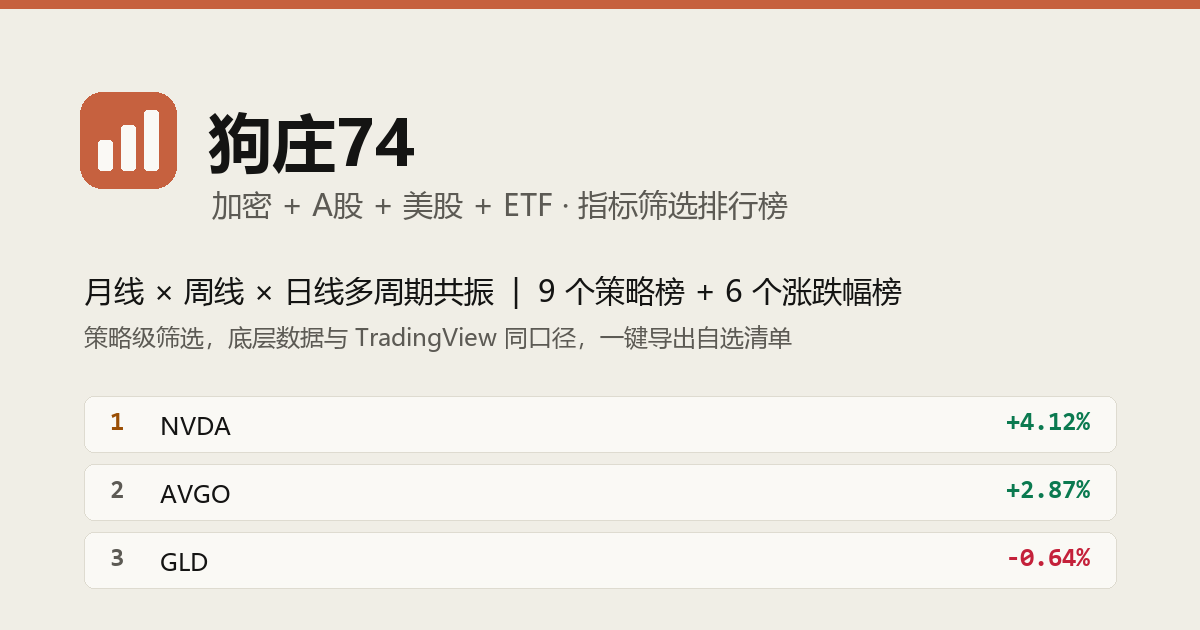
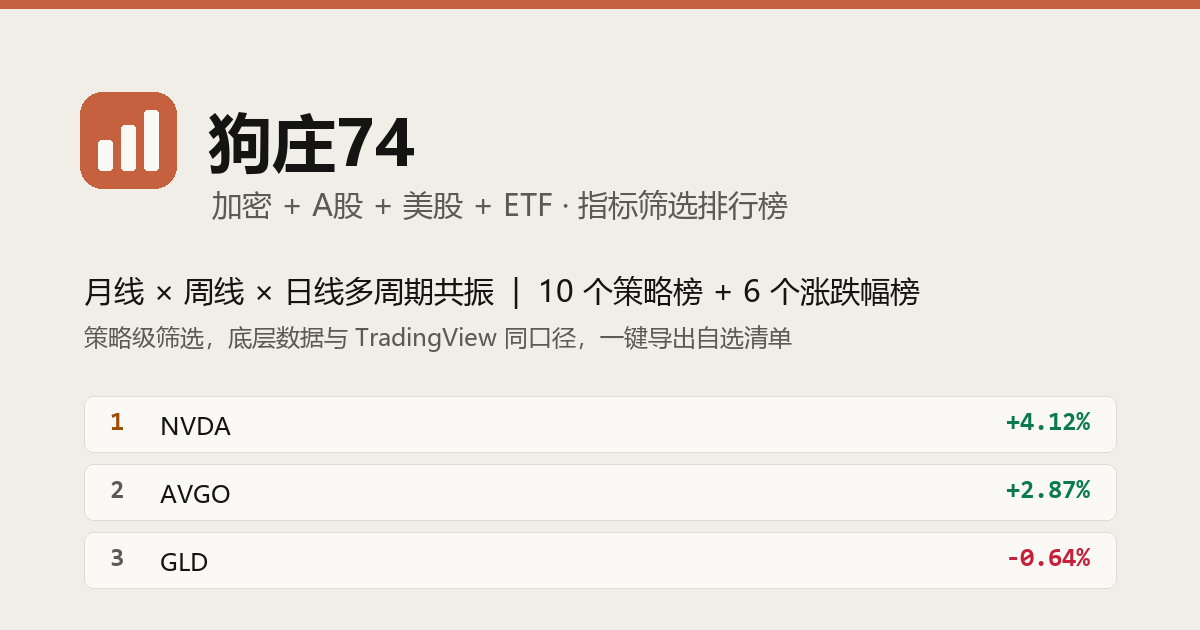
前端：加密新增第 7 个策略榜「日线SAR多头第二根」
站长指令逐字：「新增一个TAB，逻辑是：最新已收盘日线是SAR多头的第二根K线。」
没点资产 ⇒ 按「新增TAB 不点资产 ＝ 加密」的先例做加密。

- TABS_CONFIG / TAB_GROUPS 各加一条 `dailySarSecondBar`，追加在末尾成为 ⑦
  （插到中间会让 ①-⑦ 整套编号位移，后端 docstring 与注释都按编号互相引用）
- 轴一根没加：与 ①②③ 共用 11 轴的 cryptoStrategySorts（行 payload 逐字同构）
- 不进 CHANGE_PCT_TABS ⇒ isStrategyTab 为真 ⇒ 挂命中徽标、脉搏磁贴 6 榜→7 榜
- index.html：meta 描述 + FAQ 榜数（那条"加榜收尾清单必须显式含这两处"的纪律）
- og.png 重跑（现算出「10 个策略榜 + 6 个涨跌幅榜」）
- 顺带修两处陈旧注释：cryptoWeeklyExpansionSorts「只服务一个榜」实为三个（④⑤⑥）、
  「另三个加密榜」实为四个（①②③⑦）

实测（1280/768/375）：rail 10 项、新名 135==135 未裁切；轴数逐榜
5/5/5/11/11/11/13/13/13/11；1280 换 2 行、768 换 3 行、375 横滑末轴可达；
全档 body 无横滚；控制台零报错。

Changed region(s): [[0.4317, 0.4222, 0.7708, 0.4825]]

diff --git a/script.js b/script.js
@@ -370,7 +370,9 @@ const cryptoStrategySorts = [AXIS_D_VOL, AXIS_D_RSI, AXIS_D_CVD, AXIS_D_TAKER,
 // 加密周线榜 `weeklyEmaBearish`（指令①③）的 **13 轴**（指令⑥砍 DI 前是 15 轴）。
 // 站长原话「支持现在各种日线的升降序。也要有周成交额，周RSI等数据。」
 // ⚠ 建这个常量时是两个周线榜共用（另一个 `weeklyExpansionDailyCvd` 2026-07-26 晚被移除），
-// **现在只服务一个榜，但别把它合并进 cryptoStrategySorts** —— 另三个加密榜的行没有
+// **现在服务 ④⑤⑥ 三个榜**（2026-07-28 加了两个突破榜；这行原写着"只服务一个榜"，
+// 是那次的漏改，2026-07-30 就地改正）。
+// **别把它合并进 cryptoStrategySorts** —— 另四个加密榜（①②③⑦）的行没有
 // weeklyVolume/weeklyRsi/weeklyEmaGap 字段，合并会多出永远全 null 的幽灵轴。
 //   前 7 根 = 上面 cryptoStrategySorts 的日线部分**原样照搬**（"现在各种日线的升降序"）；
 //   后 5 根 = 周线块（周线RSI + 周线EMA间距 + 周ADX + 周+DI + 周MACD强弱；周成交额已于
@@ -378,7 +380,7 @@ const cryptoStrategySorts = [AXIS_D_VOL, AXIS_D_RSI, AXIS_D_CVD, AXIS_D_TAKER,
 // ⚠ **刻意不 spread cryptoStrategySorts**：那个常量把周线块也含在内了，直接 spread
 // 会让周线块被拆成两截（ADX/DI 在前、成交额/RSI 在后），破坏"同周期挤在一起"的轴序。
 // 宁可把日线七根写全，也不要一个顺序错乱的轴条。
-// ⚠ 另三个加密榜的行**没有** weeklyRsi/weeklyEmaGap 字段（后端没发），
+// ⚠ 另四个加密榜（①②③⑦）的行**没有** weeklyRsi/weeklyEmaGap 字段（后端没发），
 // 所以它们继续用 cryptoStrategySorts，别图省事合并成一个常量 —— 会多出永远全 null 的幽灵轴。
 // 2026-07-28 两处同批改动：**删 周成交额**（与日成交额秩相关 +0.826、86/86 天同号，见
 // AXIS_W_VOL 那处的存档）**＋ 加 日波动幅度** ⇒ 轴数仍是 **13**，但周线块由 6 根变 5 根、
@@ -396,7 +398,7 @@ const cryptoWeeklyExpansionSorts = [AXIS_D_VOL, AXIS_D_RSI, AXIS_D_CVD, AXIS_D_T
  *
  *  ⚠⚠ **五个 key 全是通用 key**（value / volume / rsi / cvdStrength / takerStrength），
  *  三个榜共用同一批 key —— **后端按各榜自己的周期填值**（周线榜的 `rsi` 装的是周线 RSI、
- *  月线榜装月线 RSI）。这与另六个策略榜相反（那些榜通用 key 一律是日线值、周线值另带
+ *  月线榜装月线 RSI）。这与另七个策略榜相反（那些榜通用 key 一律是日线值、周线值另带
  *  `weekly` 前缀）。副行标签走 axisLabelFor 从**当前榜自己的 sorts** 反查，所以页面上
  *  显示的是「周线RSI」而不是「日线RSI」，标签与数值对得上。
  *  也正因为用的是通用 key：`axesSub` 里 rsi / volume / cvdStrength / takerStrength
@@ -471,14 +473,16 @@ const TABS_CONFIG = {
     // 不是缓存卡住了。日线榜每小时随日 K 变，周线榜每周一变。
     monthlyChange: { sorts: monthlyChangeSorts, subFormat: (v, sf) => changeSub(v, sf, "月成交额", cryptoPriceCtx) },
 
-    // === 加密策略：六个榜（2026-07-25 晚站长先「移除加密所有TAB」清空 → 逐条指令加回五个 →
+    // === 加密策略：七个榜（2026-07-25 晚站长先「移除加密所有TAB」清空 → 逐条指令加回五个 →
     // 2026-07-26 晚移除「周线两线扩张＋CVD递增」剩四个 → 2026-07-28 新增
     // `dailyFourEmaPersist` 的同日，站长决定它与 `dailyFourEmaAligned` **二选一、只留新的**
     // ⇒ 仍是四个 → 同日站长再新增 `dailyBreakWeeklyBearSar` ⇒ 五个 → 紧接着新增
-    // `weeklyBreakBearSar` ⇒ **六个**）===
-    // **轴集分两族**：①②③ 用 11 轴的 cryptoStrategySorts（全日线值）；**④⑤⑥ 共用** 13 轴的
+    // `weeklyBreakBearSar` ⇒ 六个 → **2026-07-30 新增 `dailySarSecondBar` ⇒ 七个**）===
+    // **轴集分两族**：①②③**⑦** 用 11 轴的 cryptoStrategySorts（全日线值）；**④⑤⑥ 共用** 13 轴的
     // cryptoWeeklyExpansionSorts（行里同时装日线值和周线值，都走后端 `_wk_expansion_row`）。
-    // 族内行 payload 逐字同构，**差别只在筛选条件**。六个榜首轴统一 = 日成交额降序。
+    // 族内行 payload 逐字同构，**差别只在筛选条件**。七个榜首轴统一 = 日成交额降序。
+    // ⚠ 新榜一律**追加在末尾**（⑤⑥⑦ 都是这么加的）：插到中间会让 ①-⑦ 这套编号整体位移，
+    // 而 CLAUDE.md、后端 docstring、本文件多处注释都按编号互相引用。
     // ① 月×周×日 三个 SAR 全多头的三级共振（3 个条件，**不含新币回退**，见后端注释）。
     monthlyWeeklyDaily: { sorts: cryptoStrategySorts, subFormat: (v, sf) => axesSub(v, sf, "日成交额") },
     // ② 日线 9/21/55 三线扩张（**严格，不含 9/26**）—— **1 个条件**（2026-07-28 站长把
@@ -538,6 +542,18 @@ const TABS_CONFIG = {
     // 而空头段前期圆点还高悬在段前高点附近，"收盘价收复起点"比"SAR 翻多"来得早。所以本榜
     // 与 ④（周线SAR多头）交集也只有 26：④⑤⑥ 是围绕同一根周线 SAR 的三个不同问题。
     weeklyBreakBearSar: { sorts: cryptoWeeklyExpansionSorts, subFormat: (v, sf) => axesSub(v, sf, "日成交额") },
+    // ⑦ **最新已收盘日线是 SAR 多头段的第二根 K 线（1 个条件）** —— 2026-07-30 站长新增。
+    // 倒1 多头 且 倒2 多头 且 **倒3 空头** ⇒ 这段多头恰好从倒2 起，最新那根正是第二根。
+    // ⚠⚠ **七个榜里唯一的"事件"型 SAR 榜，也是全站唯一的"恰好第 N 根"型榜**：①④ 的
+    // SAR 多头是**状态**（会连着很多天/周为真、成员跨期稳定），本榜是**一次性事件**——
+    // 每个标的一辈子只在翻多后的那一天命中 ⇒ **成员每天几乎全换、命中数天然很小**。
+    // 看到它只有个位数、且和昨天完全不是同一批，那是正确行为不是数据挂了。
+    // 行 payload 与 ①②③ 逐字同构 ⇒ **共用 cryptoStrategySorts 11 轴，一根没新加**。
+    // ⚠ **别因为判据里有 SAR 就加一根「SAR」轴**：SAR 多头是布尔值、排不了序（同「阴K
+    // 不设轴」那条先例），后端也没给行发圆点价 ⇒ 加了就是永远全 null 的幽灵轴。
+    // 周线三轴在这里是纯描述值，恰是本榜最主要的读法：在这批"日线刚翻多满一天"的标的里
+    // 按 周ADX / 周MACD强弱 排序，能分出「大级别也在向上」和「只是空头里反弹第二天」两类。
+    dailySarSecondBar: { sorts: cryptoStrategySorts, subFormat: (v, sf) => axesSub(v, sf, "日成交额") },
 
     // === A股 / 美股 / ETF：各自唯一的单策略榜（2026-07-24 站长两步定版）===
     // 三者口径与轴集完全一致，共用 singleStrategySorts（见上方定义：日线五轴 +
@@ -627,16 +643,21 @@ const TAB_GROUPS = [
         ],
     },
     {
-        // 加密：四个榜（2026-07-25 晚站长先「移除加密所有TAB」把当天定版的三个榜全部清空、
-        // 随后逐条指令加回五个 → 2026-07-26 晚移除一个周线榜剩四个 → 2026-07-28 新增
+        // 加密：**七个榜**（2026-07-25 晚站长先「移除加密所有TAB」把当天定版的三个榜全部
+        // 清空、随后逐条指令加回五个 → 2026-07-26 晚移除一个周线榜剩四个 → 2026-07-28 新增
         // `dailyFourEmaPersist` 的同日又把 `dailyFourEmaAligned` 与它二选一、只留新的
-        // ⇒ 仍是四个；被清掉那些的显示名/desc/专属轴见 git 历史）。
+        // ⇒ 仍是四个 → 同日新增 ⑤⑥ 两个突破榜 ⇒ 六个 → **2026-07-30 新增 ⑦
+        // `dailySarSecondBar` ⇒ 七个**；被清掉那些的显示名/desc/专属轴见 git 历史）。
         // ⚠ **刻意不套 singleStrategyGroup 工厂**：那个工厂的 name/desc 写死的是股票系
-        // 的 5 个条件（月线SAR + 周线SAR + 周线扩张 + 日线扩张 + CVD），与这四个榜都不
+        // 的 5 个条件（月线SAR + 周线SAR + 周线扩张 + 日线扩张 + CVD），与这七个榜都不
         // 一样。硬套会让页面上的规则说明与后端实际筛选严重不符。
-        // 组 tf 取第一个 tab 的周期（月线），其余五个 tab 各自覆盖。**排法：同周期的放一起**
-        // （月×周×日 → 日线两个 → 周线三个）——两个日线榜相邻是刻意的：判据只差一处
-        // （9/21/55 三线扩张 vs 四线排列且启动过），挨着才看得出对照。
+        // 组 tf 取第一个 tab 的周期（月线），其余六个 tab 各自覆盖。**排法：同周期的放一起**
+        // （月×周×日 → 日线两个 → 周线三个 → ⑦ 日线SAR第二根）——两个日线榜相邻是刻意的：
+        // 判据只差一处（9/21/55 三线扩张 vs 四线排列且启动过），挨着才看得出对照。
+        // ⚠ **⑦ 追加在末尾、没有挪到前面那两个日线榜旁边**：新榜一律追加是房规（⑤⑥ 也是
+        // 这么加的），插到中间会让 ①-⑦ 整套编号位移，而后端 docstring / CLAUDE.md / 本文件
+        // 多处按编号互相引用。⑦ 与前面的日线榜也不是同一类东西（那两个看 EMA 结构、是状态；
+        // ⑦ 看 SAR 翻多、是一次性事件），并排反而容易被当成同族。
         // 周线那三个（周线SAR多头 / 日线突破周线SAR空头起点 / 周线突破SAR空头起点）
         // 2026-07-28 起相邻，**都以同一根周线 SAR 为轴心、行构造与 13 轴完全相同，但两两
         // 之间都没有包含关系**——挨着放正是为了看出这一点，三者问的是三个不同的问题：
@@ -708,6 +729,14 @@ const TAB_GROUPS = [
             // 命名差异本身就在传达"同周期 vs 跨周期"**，别为了"看起来对称"把它们改成一样。
             { key: "weeklyBreakBearSar", name: "周线突破SAR空头起点", tf: "周线",
               desc: "参照价与上面那张「日线突破」完全相同——最近一轮周线 Parabolic SAR 空头趋势第一根周 K 的收盘价，也就是这轮下跌开始的地方；区别只在拿谁去比：本榜看的是最新已收盘周线的收盘价（同样要严格站上，打平不算）。周线收盘一周才更新一次，所以它比日线那张慢半拍、也更确认：日线可能今天站上明天又跌回去，周线站上去意味着一整周都守在了上面。两张榜互有出入——上面那张独有的是「日线刚站上、周线还没确认」的最新鲜一批，本榜独有的是「周线已经确认、但日线近几天又跌回参照价下方」的回踩一批。另外有一点值得知道：本榜里大多数标的的周线 SAR 其实还是空头，这不矛盾——SAR 要翻多得等价格上穿圆点，而空头段前期圆点还高悬在下跌起点附近，所以「收盘价收复起点」通常比「SAR 翻多」来得早，本榜因此是比「周线SAR多头」更早的一档信号。上市以来从没出现过周线 SAR 空头的标的没有参照价，不入榜；周线不足 3 根的新合约同样不入榜，它们的日线各轴也可能显示「—」。范围是全部 USDT 永续合约。" },
+            // tf 日线：条件三根 K 全在日线。⚠ 2026-07-30 站长逐字：「新增一个TAB，逻辑是：
+            // 最新已收盘日线是SAR多头的第二根K线。」（没点资产 ⇒ 按先例做加密）
+            // ⚠⚠ **name 里「第二根」是"恰好"不是"至少"**：判据要求倒3 是空头，所以一段
+            // 多头里只有第 2 根那一天命中，第 3、4、5…根都不在。别把它读成「多头持续中」。
+            // ⚠ 它与站内保留组「刚翻多首根」严格互斥、并列成一对（首根那个没有 live 榜）。
+            // ⚠ 本榜完全不碰 EMA，「写全 EMA 周期数」那条规矩不适用。
+            { key: "dailySarSecondBar", name: "日线SAR多头第二根", tf: "日线",
+              desc: "最新已收盘的那根日线，正好是这一轮 Parabolic SAR 多头趋势的第二根——也就是说前一天 SAR 刚刚由空翻多，而再往前一天还是空头。它找的是「翻多刚站住一天」的那个时点：翻多当天容易是假信号、一天就打回去，隔一天还在多头一侧算是初步确认，同时又比等趋势走一段再上车要早得多。要留意这是一张一次性的事件清单，不是趋势持续清单——同一个标的在一轮行情里只会在这一天出现，第三根、第四根就不在了，所以命中数天然很小、而且几乎每天换一批人，看到只有几个标的是正常的。表格里的日线八轴和周线三轴都不参与筛选：按周ADX 或周MACD强弱 排序，可以把「大级别本来就在向上、日线只是回踩后重新翻多」和「大级别还在下跌、这只是空头里反弹的第二天」这两种情形分开，后者是本榜最需要提防的一类。上市不足 23 天的新合约数据不够，不入榜。范围是全部 USDT 永续合约。" },
         ],
     },
     // === A股 / 美股 / ETF（2026-07-24 站长两步定版：三者各保留 1 个榜）===

diff --git a/index.html b/index.html
@@ -18,8 +18,8 @@
          的旧口径），**立完当天就又失效了**：07-28 加了两个突破榜，两处都没跟上，一直停在
          「加密 4 个榜」到 07-29 才被发现。⇒ 这不是"偶尔忘"，是这两处离 TAB_GROUPS 太远、
          改榜时天然想不起来。加榜的收尾清单里必须显式含这一项。
-         全站现为 **15 个榜**（2026-07-29）：加密 9（3 涨跌幅 + 6 策略）、**A股 4（3 涨跌幅 + 1 策略）**、美股 1、ETF 1。 -->
-    <meta name="description" content="加密永续合约的日线/周线/月线涨跌幅榜，加六个多周期趋势榜（月/周/日 SAR 共振、日线 9/21 扩张＋量价动能同步、日线四线扩张存续、周线 SAR 多头、日线与周线突破 SAR 空头起点），另有 A 股（日/周/月收盘涨跌幅榜 + 多周期共振榜）、美股与大类资产 ETF 的多周期共振榜，随收盘自动更新，一键导出自选清单；另附永续合约全市场情绪概览。">
+         全站现为 **16 个榜**（2026-07-30）：加密 10（3 涨跌幅 + **7** 策略）、A股 4（3 涨跌幅 + 1 策略）、美股 1、ETF 1。 -->
+    <meta name="description" content="加密永续合约的日线/周线/月线涨跌幅榜，加七个多周期趋势榜（月/周/日 SAR 共振、日线 9/21 扩张＋量价动能同步、日线四线扩张存续、周线 SAR 多头、日线与周线突破 SAR 空头起点、日线 SAR 多头第二根），另有 A 股（日/周/月收盘涨跌幅榜 + 多周期共振榜）、美股与大类资产 ETF 的多周期共振榜，随收盘自动更新，一键导出自选清单；另附永续合约全市场情绪概览。">
     <link rel="canonical" href="https://gouzhuang748.com/">
     <link rel="icon" type="image/svg+xml" href="favicon.svg">
     <!-- PWA 基础:加主屏 = 全屏 app 体验。刻意不加 Service Worker——loadData 的
@@ -199,7 +199,7 @@
         <p>加密：每小时自动抓取一次（整点后约 2 分钟），覆盖全部 USDT 永续合约，日线以 UTC 00:00 收盘为准；顶部的市场概览条同一节奏刷新。A股：每个交易日收盘后（约北京时间 15:05 起，待数据源发布当日数据）更新一次，覆盖全部沪深 A 股（停牌股不入榜）。美股：每个交易日收盘后（待数据源发布当日数据）更新一次，覆盖全市场普通股与 ADR。ETF·大类资产：与美股同一条管道同时更新，覆盖黄金/白银/原油/主要股指/国别等约 42 只美股上市 ETF。</p>
         <h4>哪些免费、哪些收费？</h4>
         <p><b>免费的是美股榜单里排名第一的那一只股票</b>，以及顶部的市场概览条（全市场情绪、涨跌家数、总成交额、资金费率）。这两块永久免费、不需要通行证。</p>
-        <p><b>四个市场的榜单本身需要购买通行证解锁</b>——加密有三个涨跌幅榜（日线 / 周线 / 月线，全市场无筛选）和六个策略榜（月/周/日 SAR 三级共振、日线 9/21 扩张＋量价动能同步、日线四线扩张存续、周线 SAR 多头、日线突破周线 SAR 空头起点、周线突破 SAR 空头起点），A 股有三个涨跌幅榜（日 / 周 / 月，全市场无筛选、基于收盘）和一个多周期共振榜，美股、ETF 各有一个多周期共振榜，是本站的核心价值。无需注册账号，付款用加密货币（OxaPay），到账后通行证自动发到邮箱。</p>
+        <p><b>四个市场的榜单本身需要购买通行证解锁</b>——加密有三个涨跌幅榜（日线 / 周线 / 月线，全市场无筛选）和七个策略榜（月/周/日 SAR 三级共振、日线 9/21 扩张＋量价动能同步、日线四线扩张存续、周线 SAR 多头、日线突破周线 SAR 空头起点、周线突破 SAR 空头起点、日线 SAR 多头第二根），A 股有三个涨跌幅榜（日 / 周 / 月，全市场无筛选、基于收盘）和一个多周期共振榜，美股、ETF 各有一个多周期共振榜，是本站的核心价值。无需注册账号，付款用加密货币（OxaPay），到账后通行证自动发到邮箱。</p>
         <h4>每个榜到底在筛什么？</h4>
         <p>切到任一榜单，表格上方那行说明的就是<b>这个榜在找什么样的行情</b>。策略榜走的是多周期共振的思路——月线定方向、周线定趋势、日线定入场时机，几个级别同时点头才入榜；导航上的命中数不解锁也能看到。涨跌幅榜正相反，<b>没有任何筛选条件</b>，全市场按涨跌幅一字排开，用来先看清市场在发生什么、再进策略榜里筛。</p>
         <!-- ⚠ 2026-07-23 站长已把榜名恢复成直白命名（榜名里就写着 9/21/55、SAR、CVD），
@@ -275,6 +275,6 @@
     </ol>
 </dialog>
 
-<script src="script.js?v=209"></script>
+<script src="script.js?v=210"></script>
 </body>
 </html>
